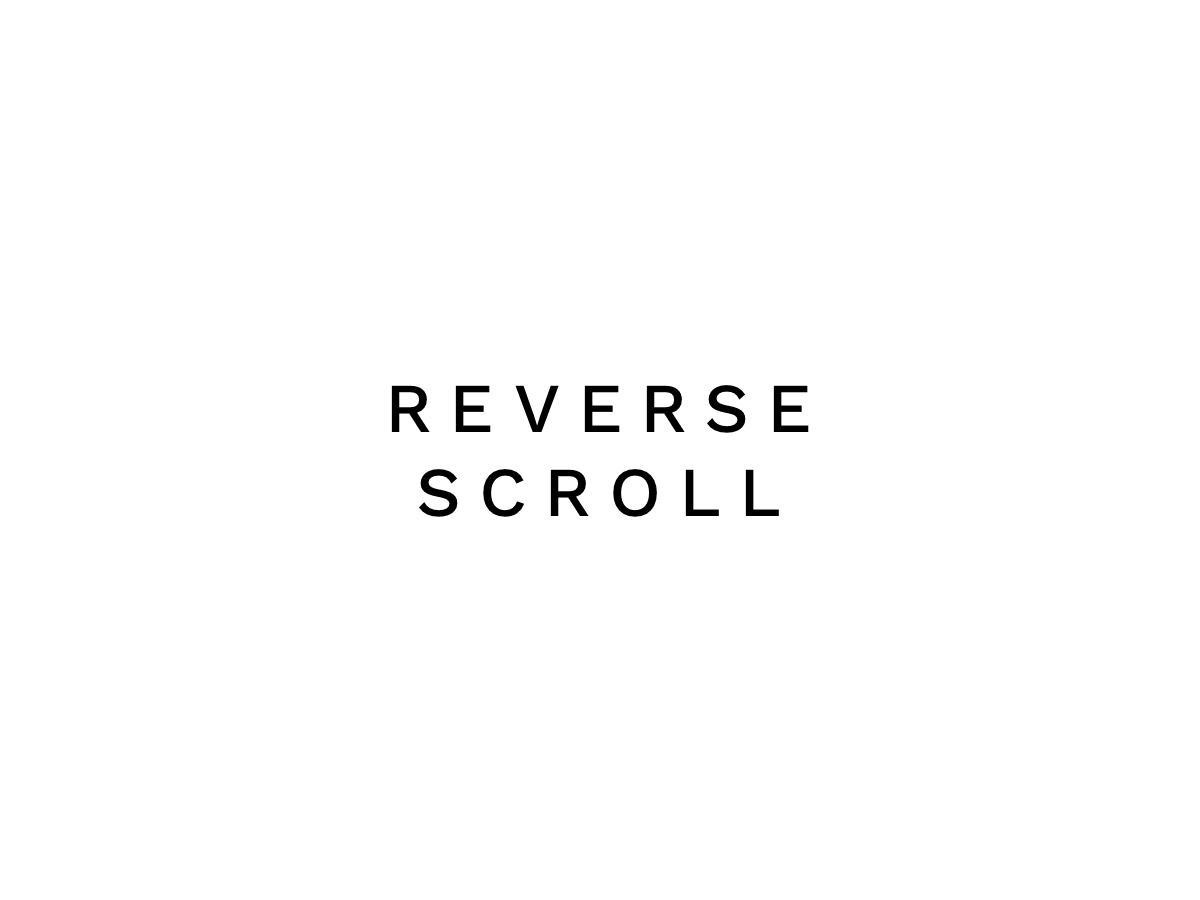
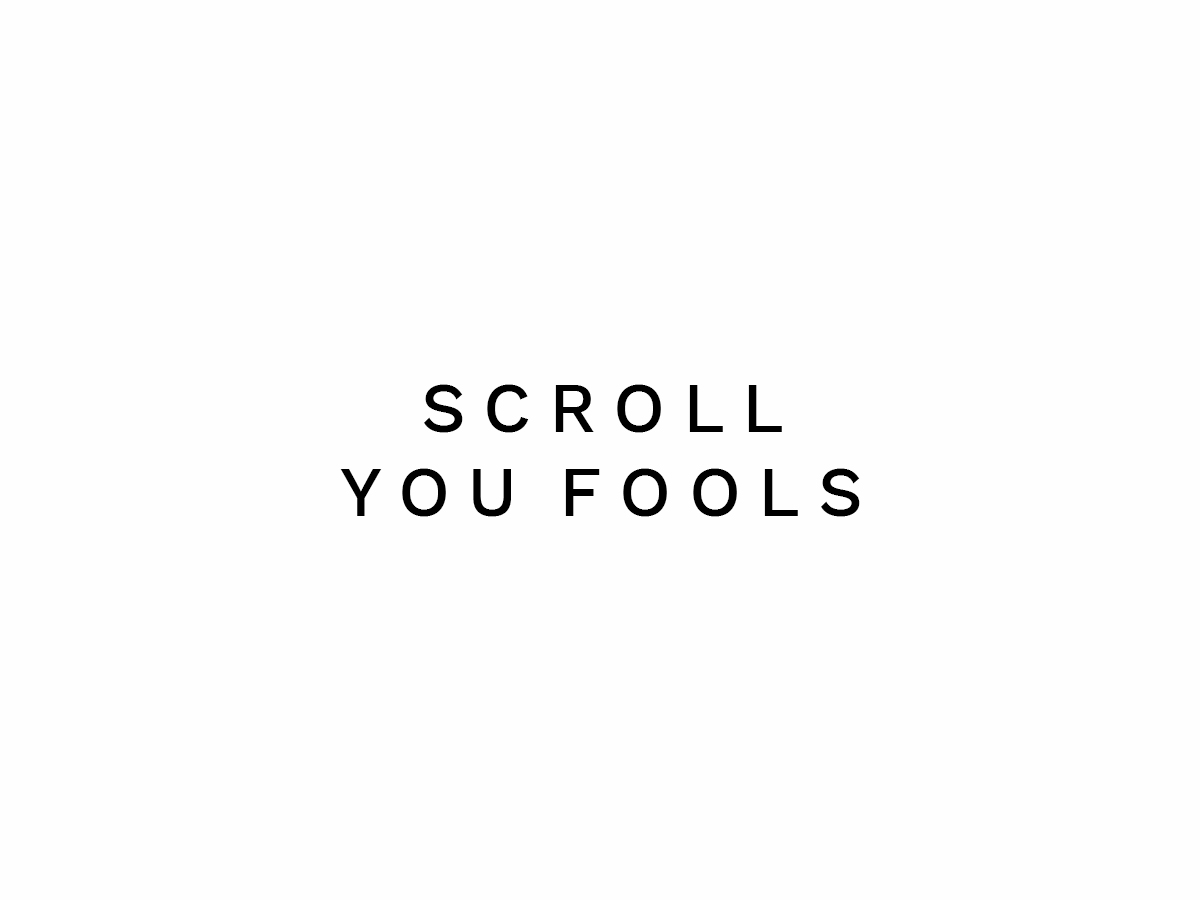
:rocket: Rename

Changed region(s): [[0.2775, 0.4044, 0.74, 0.5911]]

diff --git a/README.md b/README.md
@@ -4,14 +4,14 @@
 
 Two columns, one scroll.
 
-![Reverse scroll](screenshot.jpg)
+![Scroll, you fools](screenshot.jpg)
 
-ReverseScroll reverses scroll for two columns.
+Reverses scroll for two columns.
 
 ## Installation
 
 ```
-npm install reverse-scroll
+npm install scroll-you-fools
 ```
 
 ## Usage
@@ -37,12 +37,12 @@ body {
 	height: 100%;
 }
 
-.reverse-scroll {
+.scroll-you-fools {
 	position: relative;
 	height: 100vh;
 }
 
-.reverse-scroll__columns {
+.scroll-you-fools__columns {
 	position: absolute;
 	top: 0;
 	right: 0;
@@ -50,7 +50,7 @@ body {
 	left: 0;
 }
 
-.reverse-scroll__row {
+.scroll-you-fools__row {
 	position: absolute;
 	right: 0;
 	left: 0;
@@ -58,17 +58,17 @@ body {
 	margin-left: 15px;
 }
 
-.reverse-scroll__row--left {
+.scroll-you-fools__row--left {
 	top: 100%;
 	transform: translate3d( 0, 100%, 0 );
 }
 
-.reverse-scroll__row--right {
+.scroll-you-fools__row--right {
 	bottom: 100%;
 	transform: translate3d( 0, -100%, 0 );
 }
 
-.reverse-scroll__column {
+.scroll-you-fools__column {
 	padding-top: 12vh;
 	padding-bottom: 12vh;
 
@@ -76,7 +76,7 @@ body {
 	height: 100vh;
 }
 
-.reverse-scroll__image {
+.scroll-you-fools__image {
 	height: 100%;
 	width: 100%;
 
@@ -91,14 +91,14 @@ body {
 
 ```html
 
-<div class="reverse-scroll">
-	<div class="reverse-scroll__columns js-container container-fluid">
+<div class="scroll-you-fools">
+	<div class="scroll-you-fools__columns js-container container-fluid">
 		<div class="row h-xs-100">
 			<div class="col-5 offset-1 h-xs-100">
-				<div class="reverse-scroll__row reverse-scroll__row--left js-row-left">
-					<div class="reverse-scroll__column">
+				<div class="scroll-you-fools__row scroll-you-fools__row--left js-row-left">
+					<div class="scroll-you-fools__column">
 						<img
-							class="reverse-scroll__image"
+							class="scroll-you-fools__image"
 							src="https://picsum.photos/528/348"
 							width="528"
 							height="348"
@@ -108,10 +108,10 @@ body {
 				</div>
 			</div>
 			<div class="col-12 col-lg-5 h-xs-100">
-				<div class="reverse-scroll__row reverse-scroll__row--right js-row-right">
-					<div class="reverse-scroll__column">
+				<div class="scroll-you-fools__row scroll-you-fools__row--right js-row-right">
+					<div class="scroll-you-fools__column">
 						<img
-							class="reverse-scroll__image"
+							class="scroll-you-fools__image"
 							src="https://picsum.photos/528/348"
 							width="528"
 							height="348"
@@ -130,7 +130,7 @@ body {
 
 ## Example
 
-An example is located right [here](https://19h47.github.io/reverse-scroll/), see [sources](/example/index.html).
+An example is located right [here](https://19h47.github.io/scroll-you-fools/), see [sources](/example/index.html).
 
 ## Authors
 
